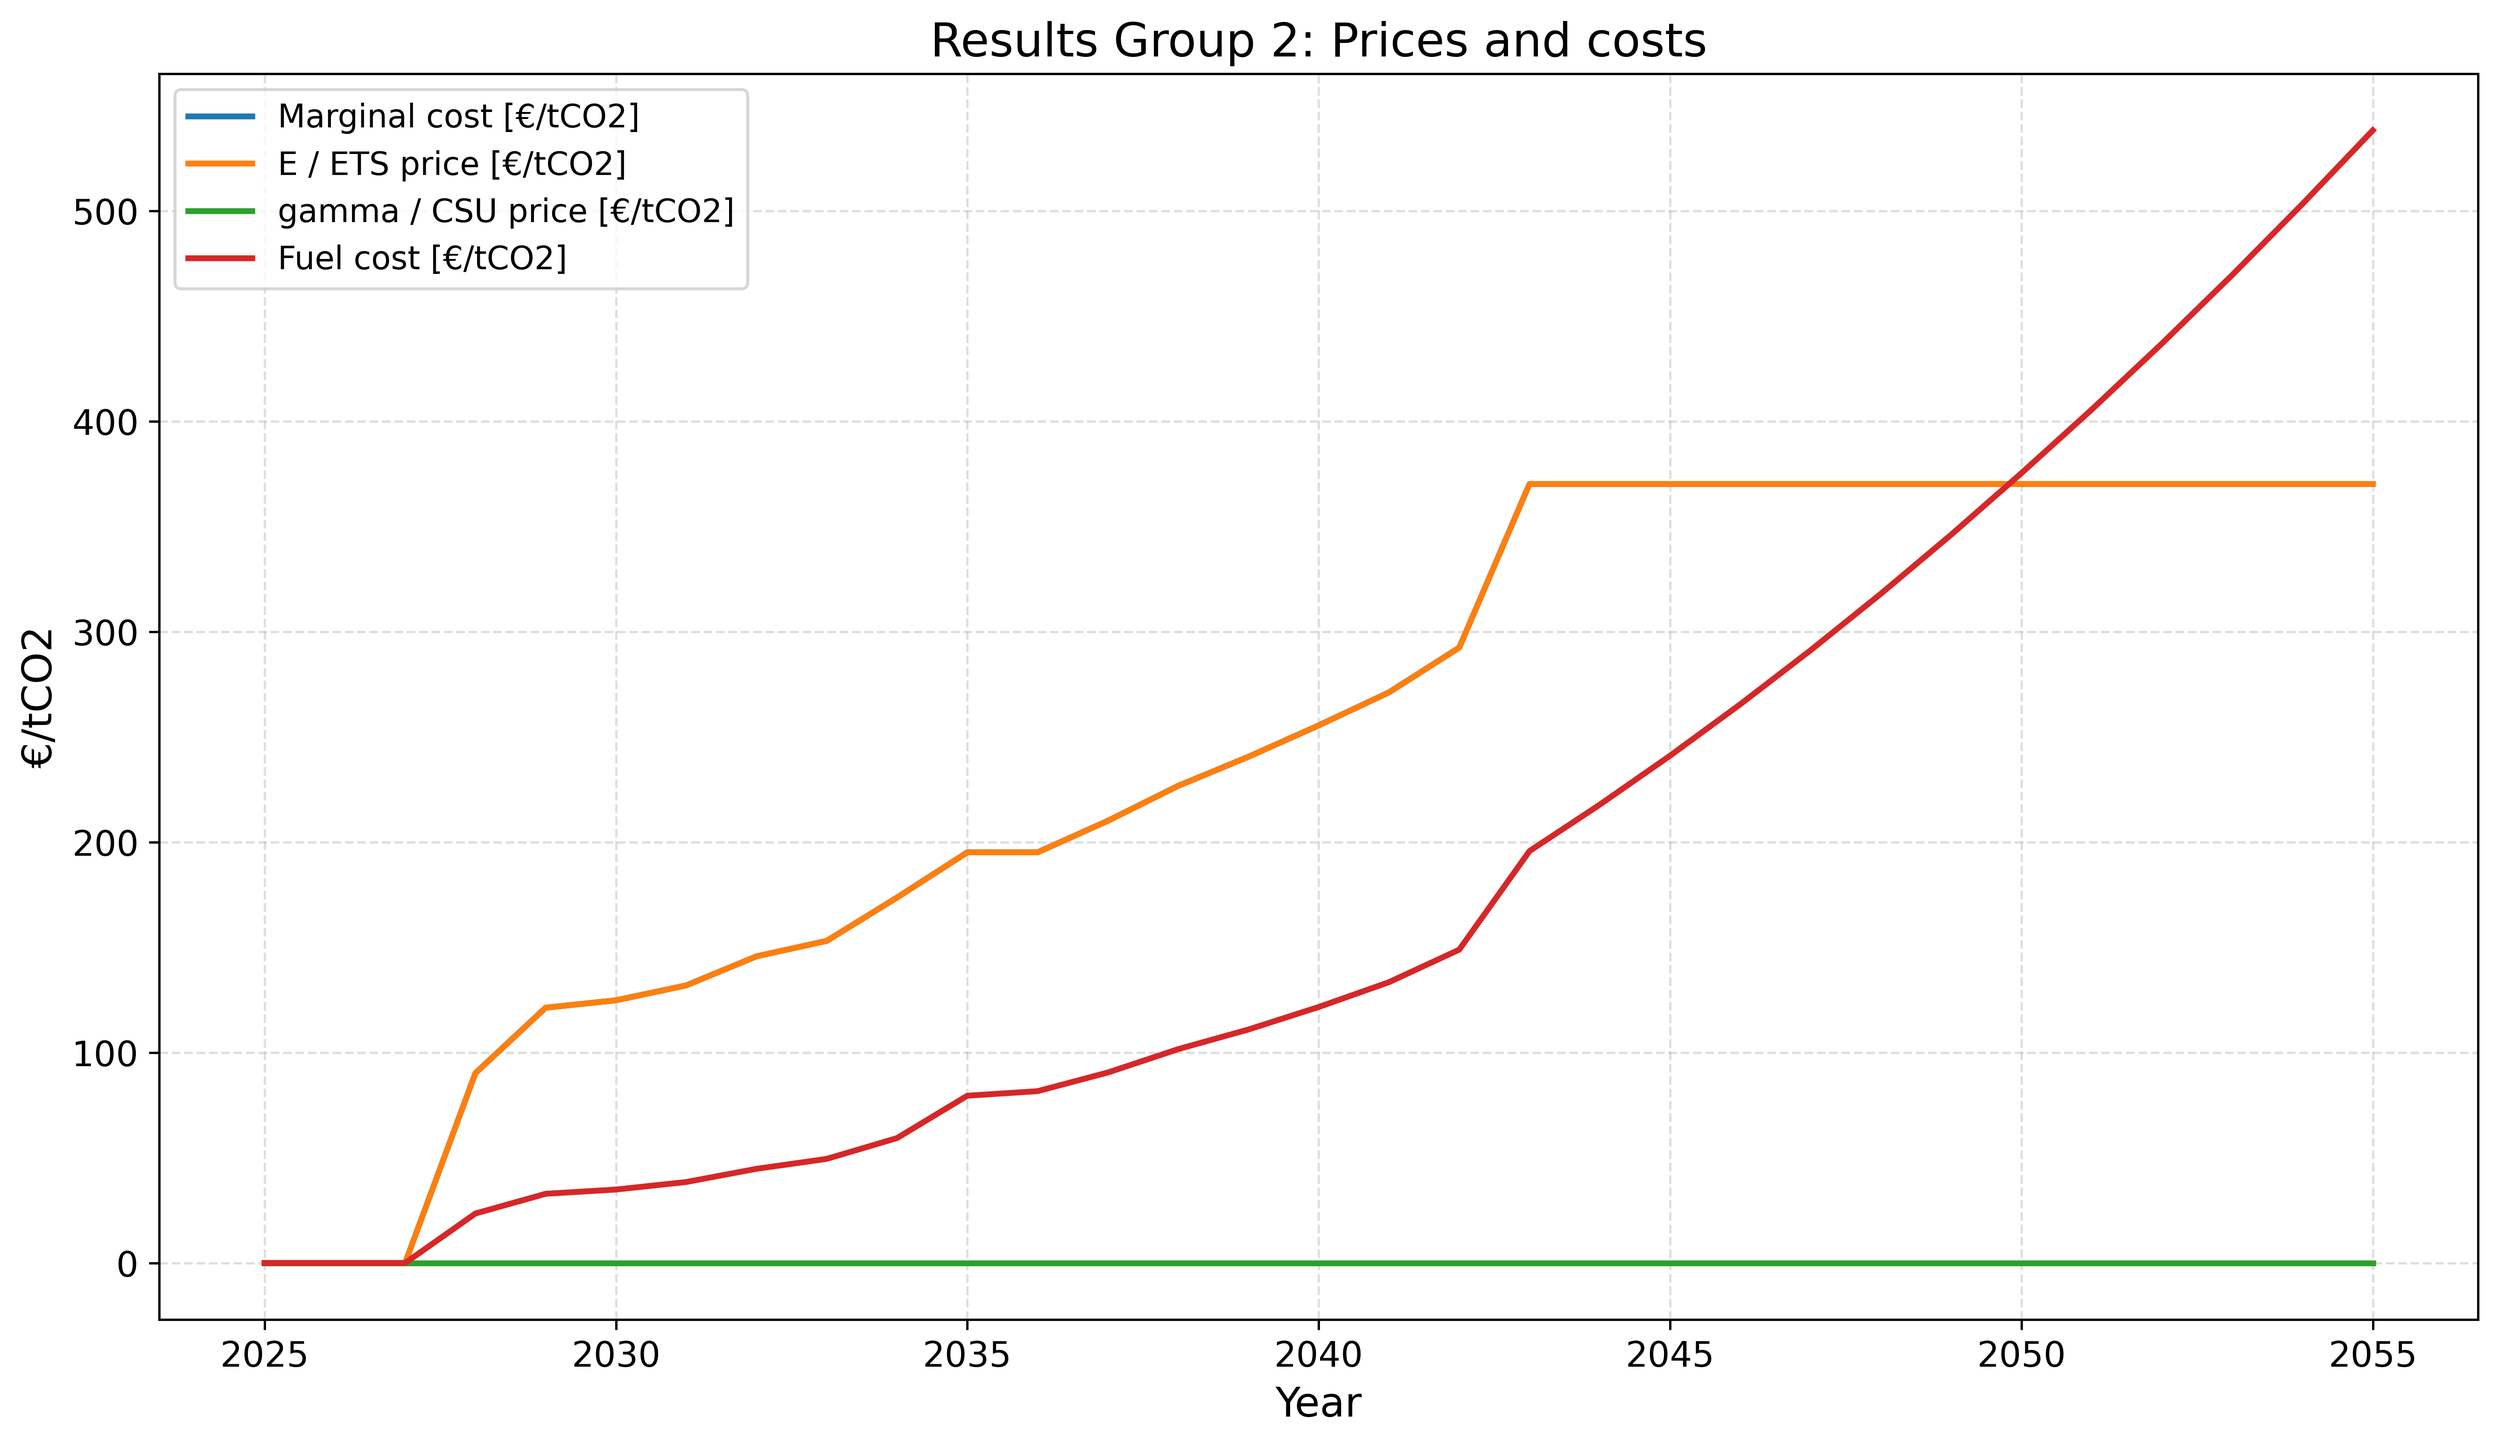
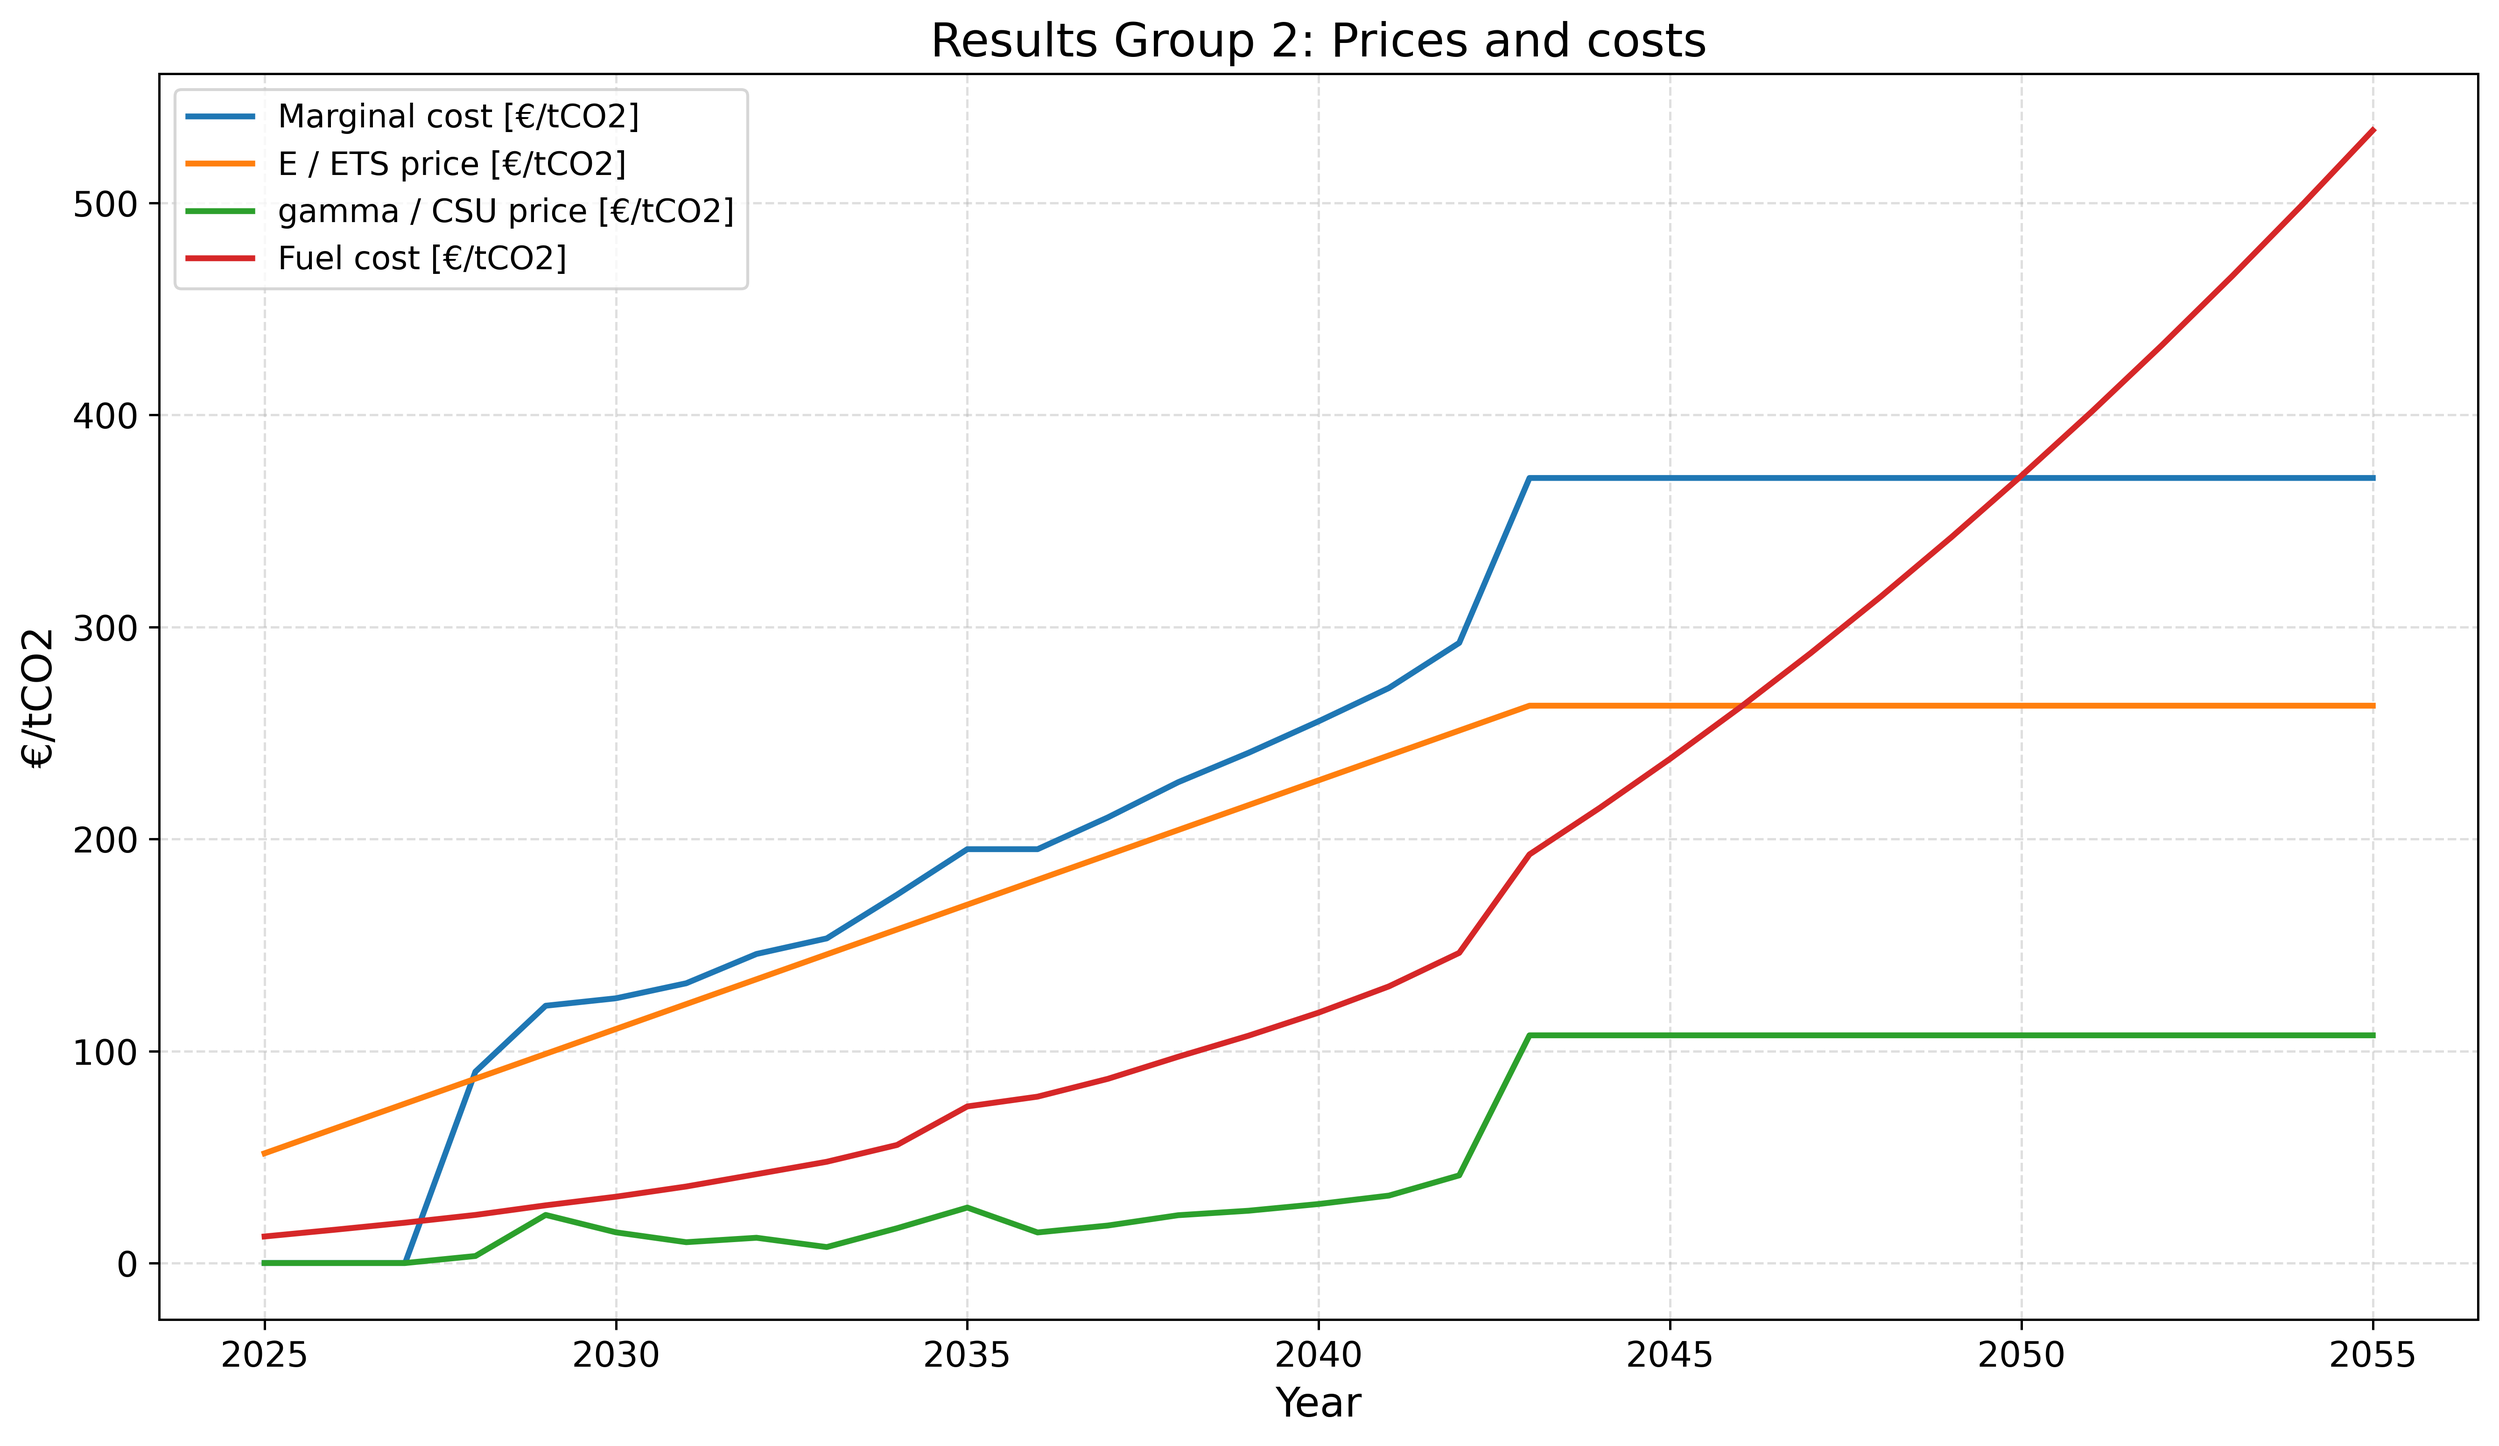
Ready for PLANT NPV calculations

diff --git a/ctbo.py b/ctbo.py
@@ -393,7 +393,7 @@ def simulate_ctbo(
     DISCOUNT_RATE = 0.035,
     CTBO_QUADRATIC = 0.4,
     ETS_START = 45, # [£/tCO2]
-    ETS_SCENARIO = 'ETS-eq', # ['CTBO-only', 'ETS-eq', '£100-Mix', '£200-Mix', '£300-Mix']),
+    ETS_SCENARIO = '£300-Mix', # ['CTBO-only', 'ETS-eq', '£100-Mix', '£200-Mix', '£300-Mix']),
     DACCS_SCENARIO = '£322', # [£/tCO2] 322, 391, 7th Carbon Budget
     
     START_YEAR = 2025,
@@ -658,9 +658,9 @@ def simulate_ctbo(
     _tax_E_policy = []
     _gas_increase_abs = [] # €/MWh
     _gas_increase_pct = [] # % increase
-    _petrol_increase_abs = [] # €/L
-    _diesel_increase_abs = [] # €/L
-    _kerosene_increase_abs = [] # €/L
+    _petrol_increase_abs = [] # cent/L
+    _diesel_increase_abs = [] # cent/L
+    _kerosene_increase_abs = [] # cent/L
     _plants_costbenefit = []
 
     # Simulate the CTBO
@@ -836,15 +836,15 @@ def simulate_ctbo(
 
         # Calculate the fuel price increase and store results
         gas_increase_abs = cost_fuels * emission_factor_gas # [€/MWh]
-        petrol_increase_abs = cost_fuels * (emission_factor_petrol/1000) # [€/L]
-        diesel_increase_abs = cost_fuels * (emission_factor_diesel/1000) # [€/L]
-        kerosene_increase_abs = cost_fuels * (emission_factor_kerosene/1000) # [€/L]
+        petrol_increase_abs = cost_fuels * (emission_factor_petrol/1000) / pounds_to_EUR * 100 # [cent/L]
+        diesel_increase_abs = cost_fuels * (emission_factor_diesel/1000) / pounds_to_EUR * 100 # [cent/L]
+        kerosene_increase_abs = cost_fuels * (emission_factor_kerosene/1000) / pounds_to_EUR * 100 # [cent/L]
 
         _supply_ktCO2f.append(supply_ktCO2f)
         _emitted_ktCO2f.append(emitted_ktCO2f)
         _emitted_ktCO2final.append(emitted_ktCO2_ETS + diffuse_supply)
         _mandate_ktCO2.append(ctbo_mandate)
-        _stored_ktCO2g.append(stored_ktCO2f + stored_ktCO2cem + stored_ktCO2pl)
+        _stored_ktCO2g.append(stored_ktCO2b+stored_ktCO2daccs+stored_ktCO2cem + stored_ktCO2pl) # Can balance remaining fossil FUEL emissions
         _stored_ktCO2b.append(stored_ktCO2b)
         _stored_ktCO2daccs.append(stored_ktCO2daccs)
 
@@ -1012,11 +1012,12 @@ def plot_results_groups(years, results, savefig=False, debug=False):
     fig, ax = plt.subplots(figsize=(12, 7))
     ax.plot(years, results['supply_ktCO2f'], lw=2, label='Supply [ktCO2f]')
     # ax.plot(years, results['emitted_ktCO2f'], lw=2, label='Emitted [ktCO2f]')
-    ax.plot(years, results['emitted_ktCO2final'], lw=2, label='Emitted final [ktCO2f]')
+    ax.plot(years, results['emitted_ktCO2final'], lw=2, label='Emitted final [ktCO2f,c,p]')
+    ax.plot(years, results['emitted_ktCO2f'], lw=2, label='Emitted fuel [ktCO2f]')
     ax.plot(years, results['mandate_ktCO2'], lw=2, label='Mandate [ktCO2]')
-    ax.plot(years, results['stored_ktCO2g'], lw=2, label='Stored g [ktCO2]')
-    ax.plot(years, results['stored_ktCO2b'], lw=2, label='Stored b [ktCO2]')
-    ax.plot(years, results['stored_ktCO2daccs'], lw=2, label='Stored DACCS [ktCO2]')
+    ax.plot(years, results['stored_ktCO2g'], lw=2, label='Stored [ktCO2,b,daccs,cem,pl]')
+    ax.plot(years, results['stored_ktCO2b'], lw=2, label='Stored [ktCO2,b]')
+    ax.plot(years, results['stored_ktCO2daccs'], lw=2, label='Stored [ktCO2,daccs]')
     ax.set_title('Results Group 1: Carbon flows', fontsize=16)
     ax.set_xlabel('Year', fontsize=14)
     ax.set_ylabel('ktCO2/y', fontsize=14)
@@ -1083,9 +1084,9 @@ def plot_results_groups(years, results, savefig=False, debug=False):
     # Group 4: Fuel price impacts
     fig, ax = plt.subplots(figsize=(12, 7))
     ax.plot(years, results['gas_increase_abs'], lw=2, label='Gas increase [€/MWh]')
-    ax.plot(years, results['petrol_increase_abs'], lw=2, label='Petrol increase [€/L]')
-    ax.plot(years, results['diesel_increase_abs'], lw=2, label='Diesel increase [€/L]')
-    ax.plot(years, results['kerosene_increase_abs'], lw=2, label='Kerosene increase [€/L]')
+    ax.plot(years, results['petrol_increase_abs'], lw=2, label='Petrol increase [cent/L]')
+    ax.plot(years, results['diesel_increase_abs'], lw=2, label='Diesel increase [cent/L]')
+    ax.plot(years, results['kerosene_increase_abs'], lw=2, label='Kerosene increase [cent/L]')
     ax.set_title('Results Group 4: Fuel price impacts', fontsize=16)
     ax.set_xlabel('Year', fontsize=14)
     ax.set_ylabel('Absolute increase', fontsize=14)
